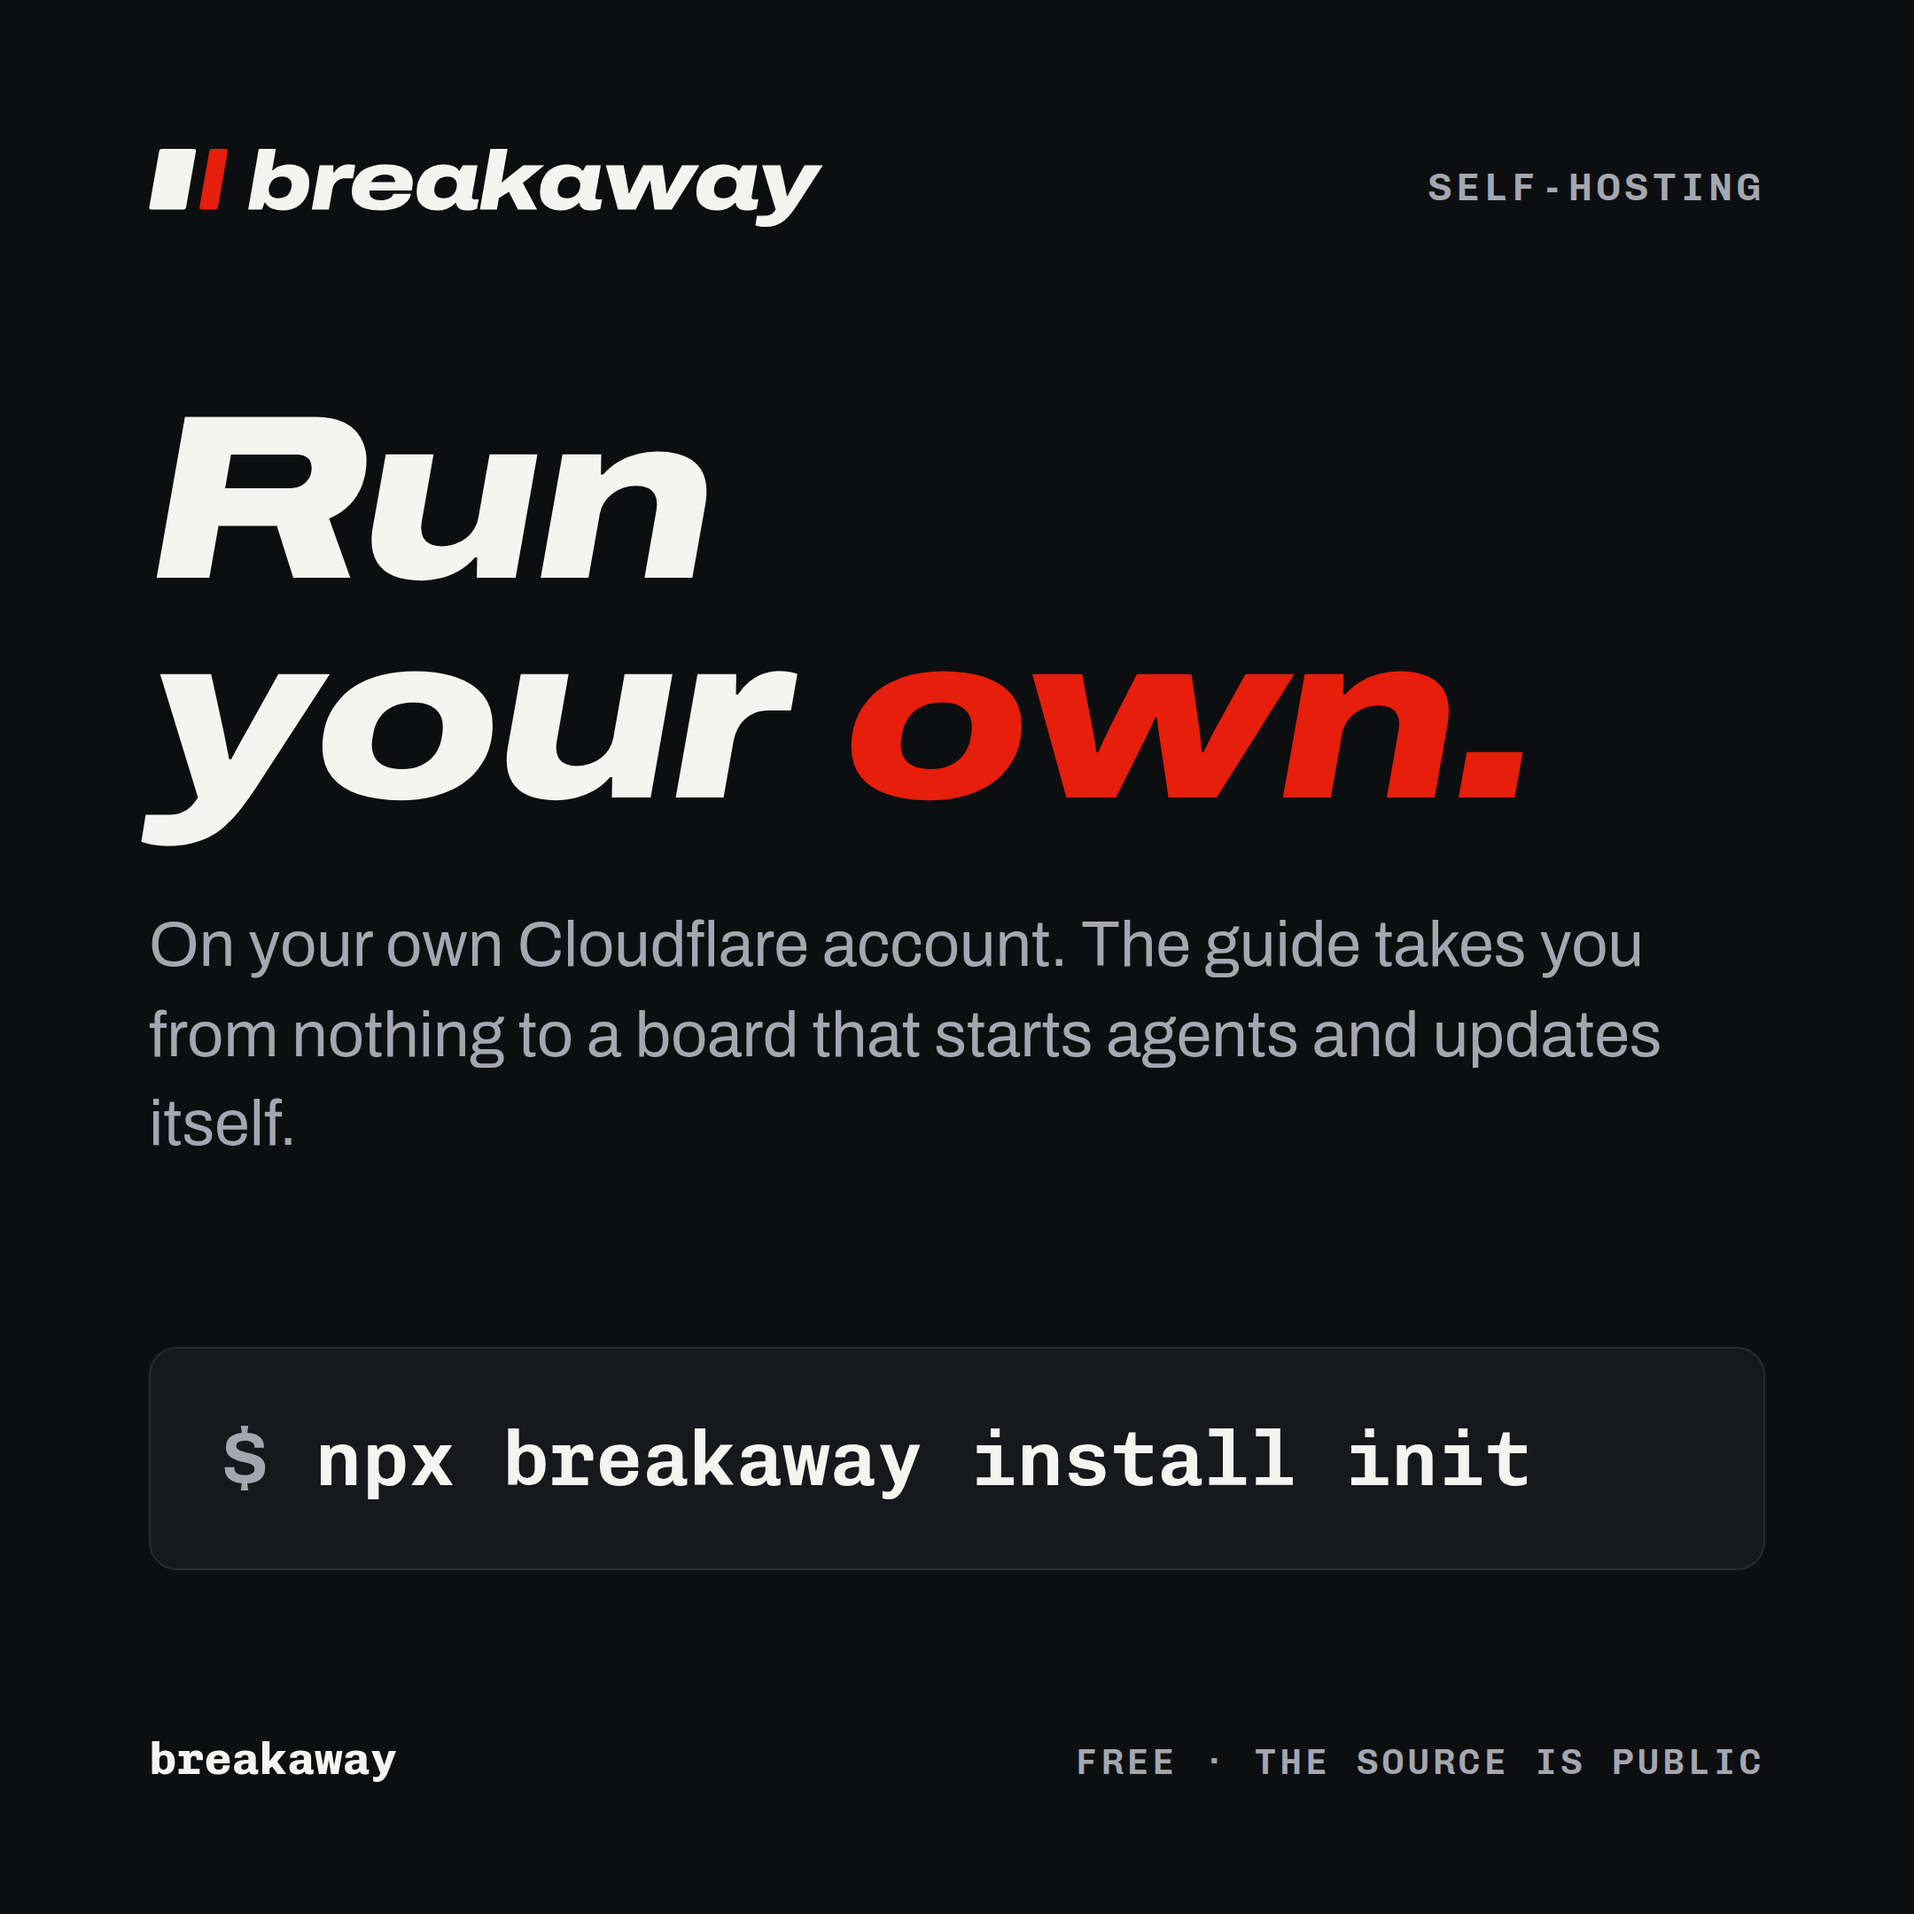
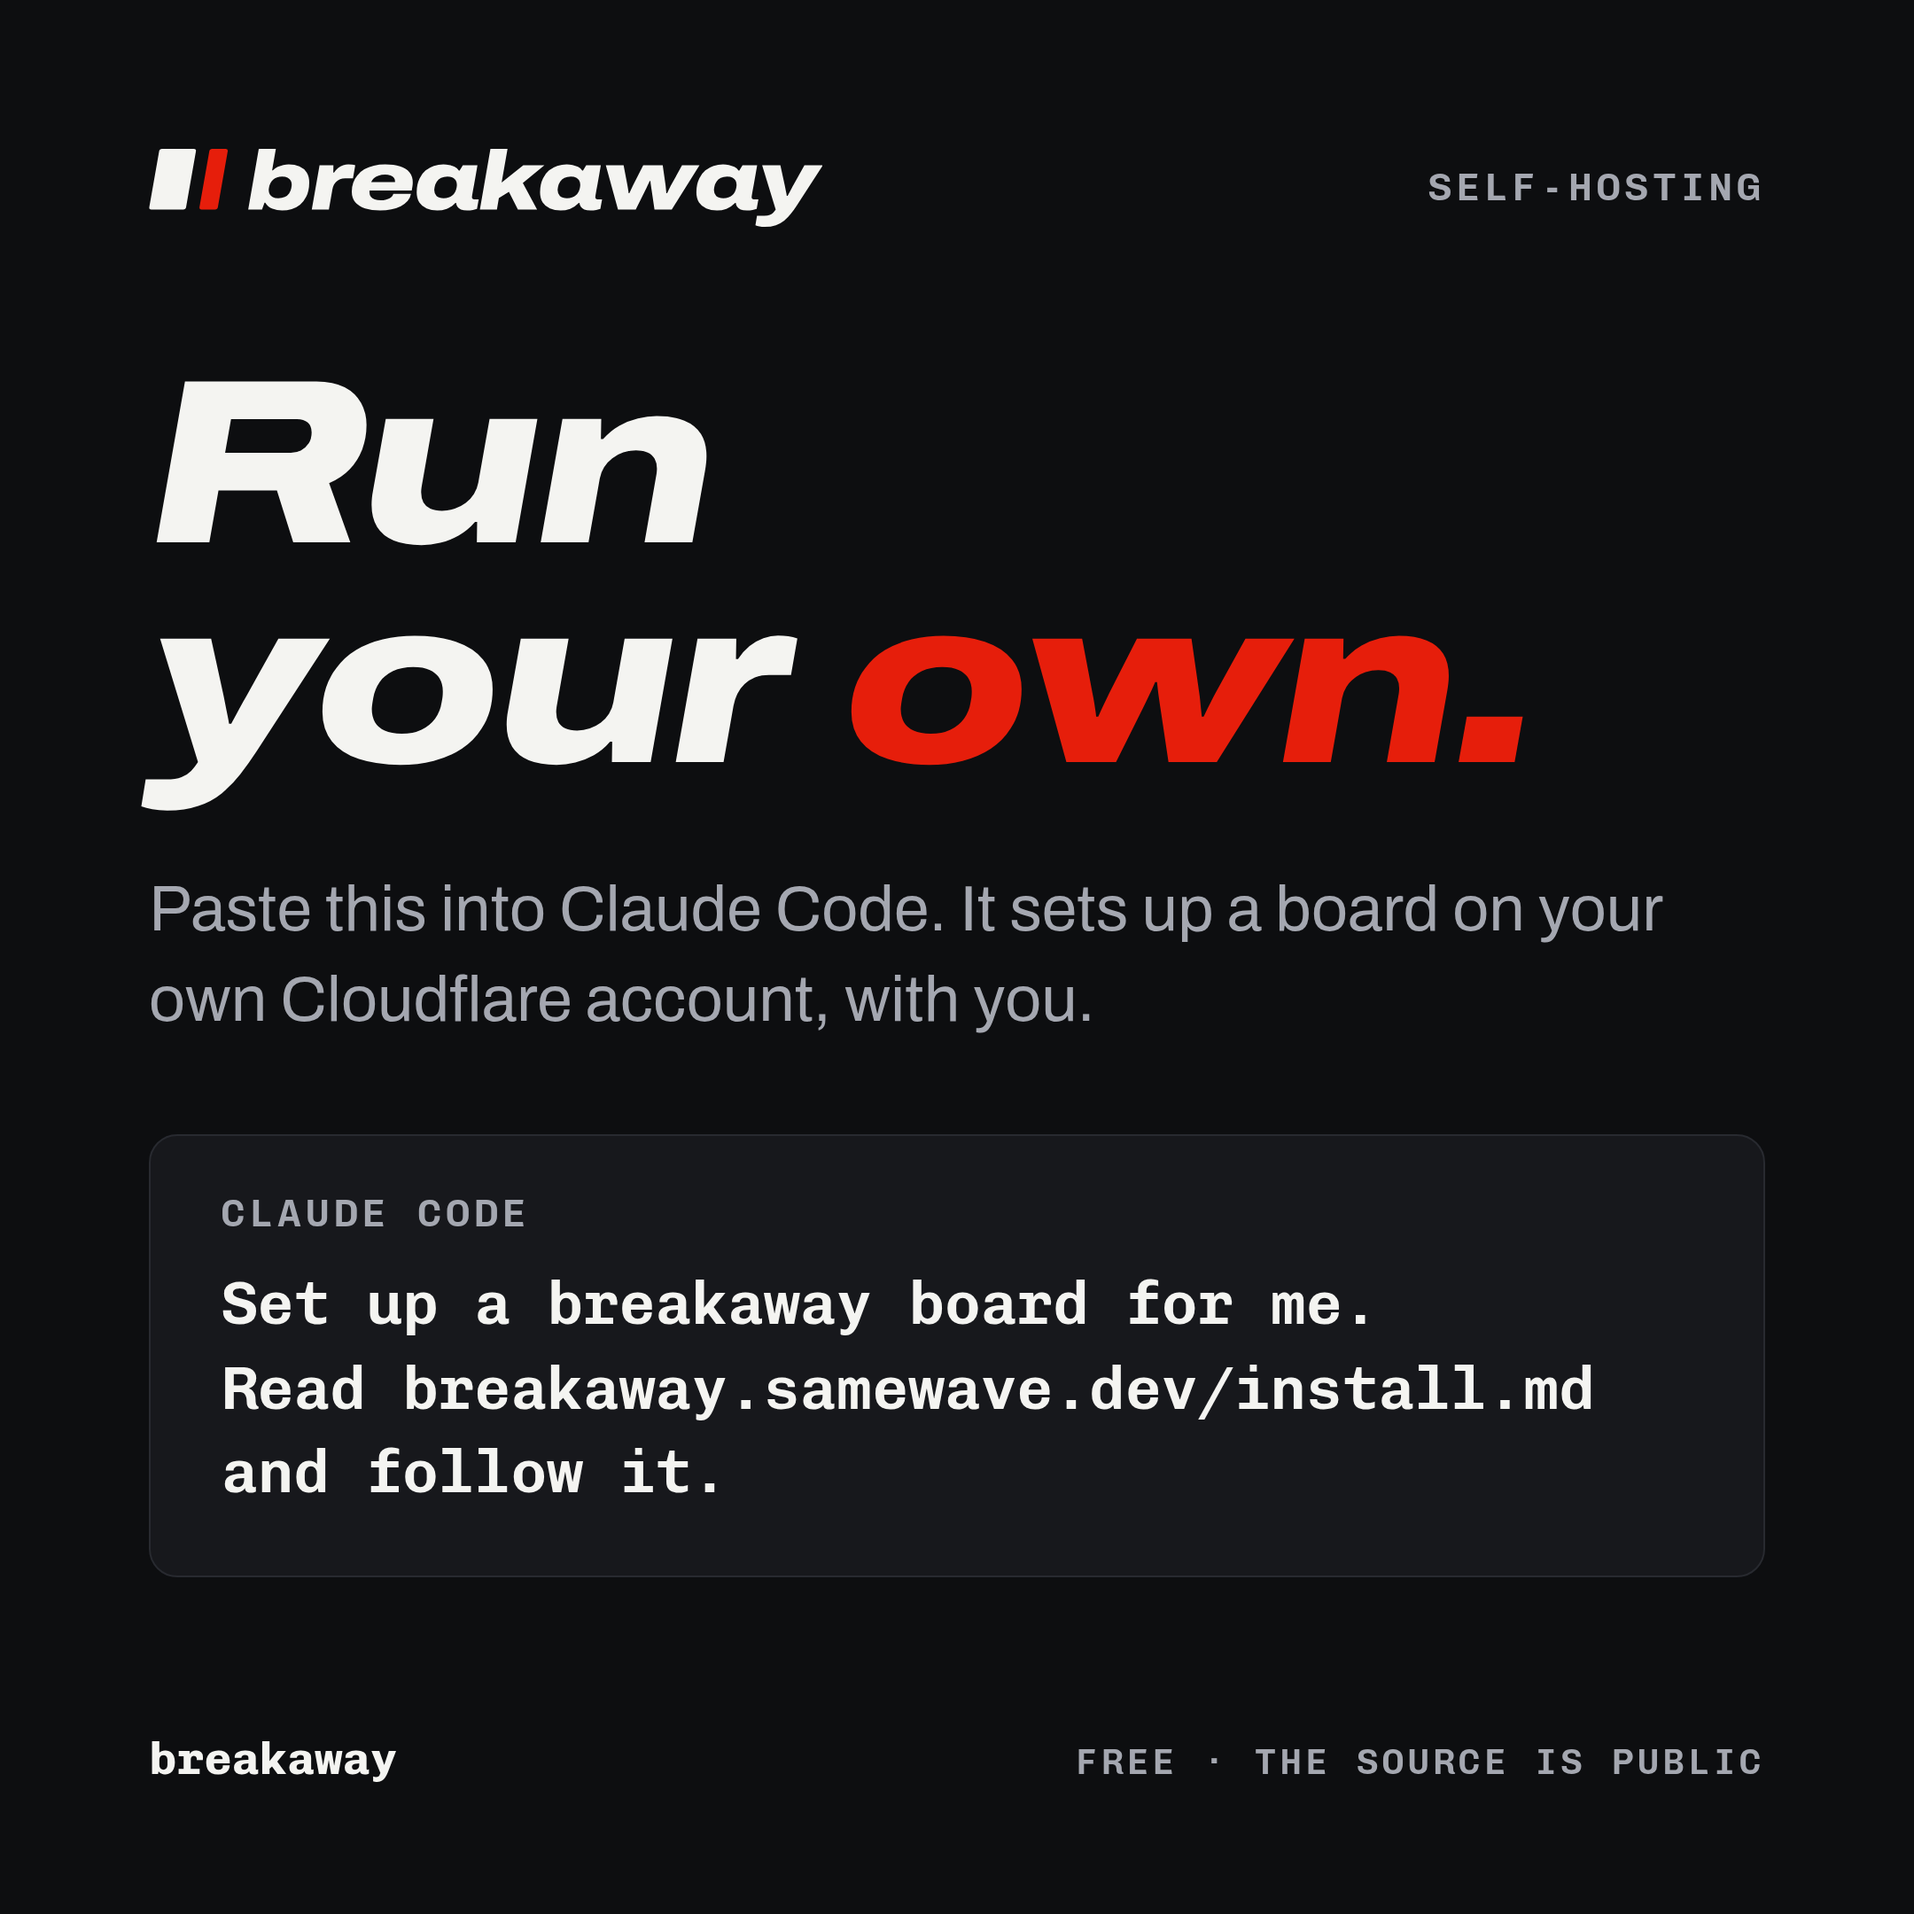
LCH-11: The launch's Run your own post and card lead with the install prompt
The README and the site lead with the Claude Code prompt (DOC-8), but launch post 4 and its card still said
npx breakaway install init. The card now shows the prompt, and the post points to the README for it, since X and
Bluesky shorten a long link's text and a prompt copied from the post would break. posts.md says the posts go out once
the site is live, in place of the LCH-3 note.

Claude-Session: https://claude.ai/code/session_018knyrNEgtutDcr4XZ6oVDZ

Changed region(s): [[0.062, 0.1861, 0.8685, 0.7755]]

diff --git a/scripts/lib/no-samewave.test.js b/scripts/lib/no-samewave.test.js
@@ -52,6 +52,8 @@ const ALLOWED = {
   'site/content/docs/quickstart.md': [1, 'the site’s address: the install prompt people paste into Claude Code'],
   'site/content/index.html': [2, 'the site’s address: the install prompt people paste into Claude Code'],
   'test/site-pages.test.js': [2, 'checks the site’s address and that it says who hosts it'],
+  'launch/posts.md': [2, 'the site’s address: when to post, and the install prompt on post 4’s card'],
+  'launch/tools/cards.mjs': [2, 'the site’s address: the install prompt on the Run your own card'],
   // The licensor: the owner's account, which the repository lives under.
   LICENSE: [1, 'the licence’s notice names the licensor'],
   // History.

diff --git a/launch/posts.md b/launch/posts.md
@@ -4,7 +4,7 @@ Drafts for the owner to post: agents never post. The post and thread point to th
 
 Each post fits X (280 characters, a link counts as 23) and Bluesky (300), and stands on its own. Post to both from the same text. Put the media on the post it's listed under, with its alt text. Counts are as X counts them.
 
-Before posting, check the repository link below is the one that will be public (`LCH-3` changes the repository's history before it goes public).
+Post once the site is live (`LCH-5`): post 4 sends people to the README's install prompt, which reads `breakaway.samewave.dev/install.md`.
 
 ## 1. The launch post
 
@@ -46,15 +46,15 @@ Before posting, check the repository link below is the one that will be public (
 
 **Media:** [`media/04-run-your-own.png`](media/04-run-your-own.png)
 
-> Run your own, on your own Cloudflare account:
+> Run your own, on your own Cloudflare account: paste one prompt into Claude Code, and it sets up the board with you. It stops for each step only you can do, and never asks for a secret in the chat.
 >
-> npx breakaway install init
+> The prompt is at the top of the README:
 >
-> The guide takes you from nothing to a board that starts agents and updates itself.
->
-> https://github.com/TheAnarchoX/breakaway/blob/main/docs/self-hosting.md
+> https://github.com/TheAnarchoX/breakaway
 
-**Alt text:** A card headed "Run your own." with the command npx breakaway install init, and the line "Free, the source is public."
+The post points to the README rather than carrying the prompt: X and Bluesky shorten a long link's text, so a prompt copied from the post would break.
+
+**Alt text:** A card headed "Run your own." Below it: "Paste this into Claude Code. It sets up a board on your own Cloudflare account, with you." Then the prompt: Set up a breakaway board for me. Read breakaway.samewave.dev/install.md and follow it. And the line "Free, the source is public."
 
 ## 5. The licence
 
